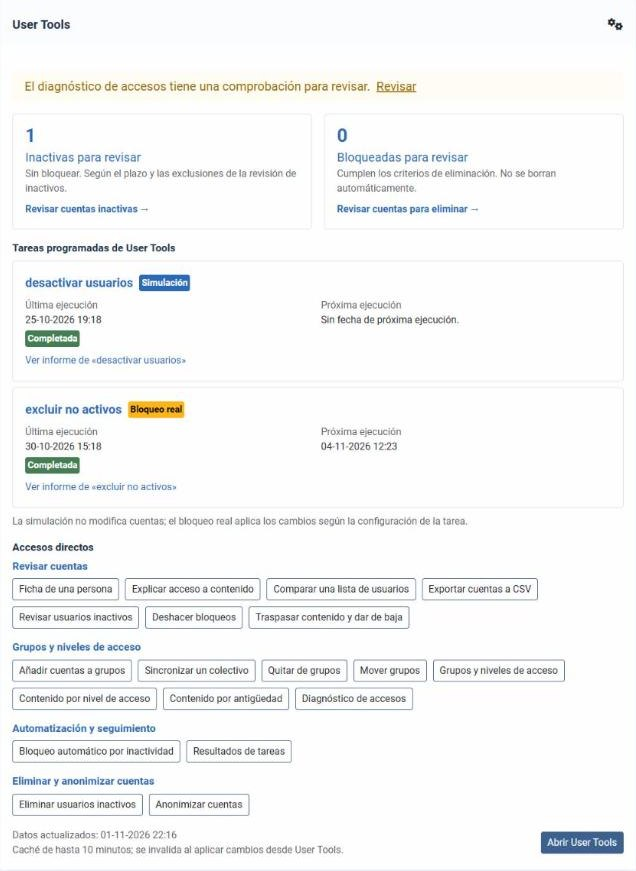
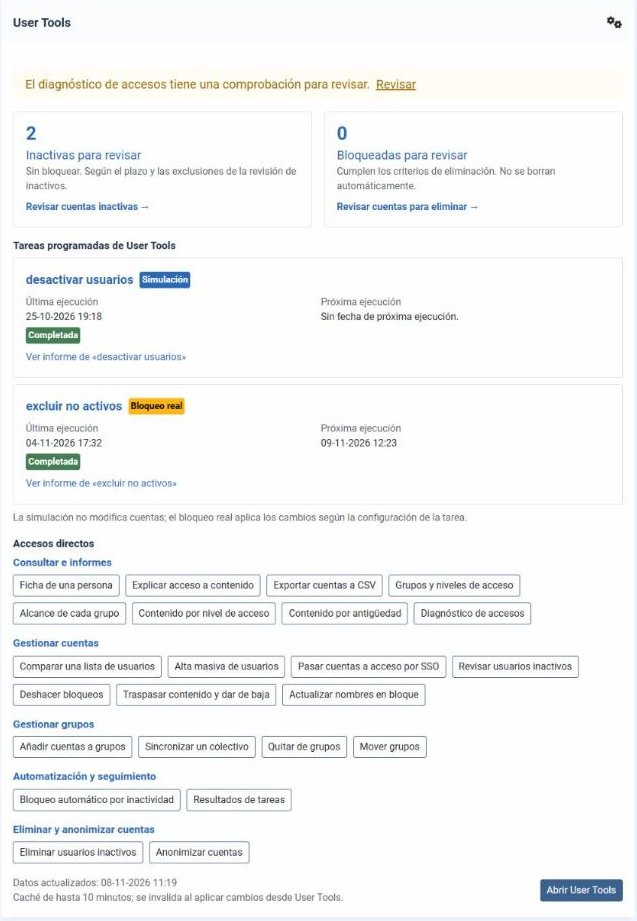
docs: Users dashboard screenshot with the five categories

diff --git a/docs/capturas.md b/docs/capturas.md
@@ -4,7 +4,7 @@
 
 [Volver al README](../README.md)
 
-Estas capturas compartidas muestran la interfaz en español en Joomla 6.2.0. Cada pie indica la versión en que se hizo la captura cuando es reciente: las de eliminación son de 2026.10.5, las de quitar de grupos de 2026.10.9 y 2026.10.16, la revisión de la comparación y la de grupos y niveles de acceso de 2026.10.11, la de contenido por nivel de acceso de 2026.10.12, las de diagnóstico de accesos de 2026.10.15, las de mover grupos de 2026.10.16, las de añadir cuentas a grupos, exportar cuentas y deshacer bloqueos de 2026.10.19, las de la ficha de una persona de 2026.10.20, la tabla de contenido por antigüedad con sus cuatro tipos, las categorías de automatización y eliminación, y el recorrido guiado, de 2026.10.21, y la ficha de una persona, el panel de Usuarios, la explicación de acceso, sincronizar un colectivo, traspasar contenido y el resultado de la anonimización, de 2026.11.0, las de actualizar nombres en bloque, de 2026.11.4, y la portada, las categorías «Consultar e informes», «Gestionar cuentas» y «Gestionar grupos», el alcance de cada grupo y la lista de contenido por antigüedad, de 2026.11.7. Las que no indican versión corresponden a una interfaz anterior y pueden diferir de la actual. Para las opciones y el comportamiento vigentes, consulta el [README](../README.md) y las [preguntas frecuentes](../FAQ.md).
+Estas capturas compartidas muestran la interfaz en español en Joomla 6.2.0. Cada pie indica la versión en que se hizo la captura cuando es reciente: las de eliminación son de 2026.10.5, las de quitar de grupos de 2026.10.9 y 2026.10.16, la revisión de la comparación y la de grupos y niveles de acceso de 2026.10.11, la de contenido por nivel de acceso de 2026.10.12, las de diagnóstico de accesos de 2026.10.15, las de mover grupos de 2026.10.16, las de añadir cuentas a grupos, exportar cuentas y deshacer bloqueos de 2026.10.19, las de la ficha de una persona de 2026.10.20, la tabla de contenido por antigüedad con sus cuatro tipos, las categorías de automatización y eliminación, y el recorrido guiado, de 2026.10.21, y la ficha de una persona, la explicación de acceso, sincronizar un colectivo, traspasar contenido y el resultado de la anonimización, de 2026.11.0, las de actualizar nombres en bloque, de 2026.11.4, y la portada, las categorías «Consultar e informes», «Gestionar cuentas» y «Gestionar grupos», el panel de Usuarios, el alcance de cada grupo y la lista de contenido por antigüedad, de 2026.11.7. Las que no indican versión corresponden a una interfaz anterior y pueden diferir de la actual. Para las opciones y el comportamiento vigentes, consulta el [README](../README.md) y las [preguntas frecuentes](../FAQ.md).
 
 Además de estas capturas, la CI comprueba el orden de teclado, el despliegue del menú y la categoría activa, y guarda capturas a texto al 200 %, con preferencia oscura y a 390 px de ancho. Las tarjetas y los formularios caben a 390 px, pero la cabecera general de Joomla no parte el título de la página y genera un ancho de documento de unos 600 px, y hasta unos 780 px con los títulos más largos, como el de «Traspasar contenido y dar de baja»; no se ha alterado la plantilla para ocultarlo. Esto no acredita conformidad WCAG ni sustituye pruebas con lector de pantalla.
 
@@ -82,7 +82,7 @@ Además de estas capturas, la CI comprueba el orden de teclado, el despliegue de
 
 ![Detalle de un informe de tarea](screenshots/10-informe-tarea.jpg)
 
-![Módulo User Tools en el panel de Usuarios: aviso del diagnóstico, cuentas para revisar, tareas con su modo y resultado, y accesos directos agrupados por las mismas categorías del menú (2026.11.0)](screenshots/13-panel-usuarios.jpg)
+![Módulo User Tools en el panel de Usuarios: aviso del diagnóstico, cuentas para revisar, tareas con su modo y resultado, y accesos directos agrupados por las mismas cinco categorías del menú (2026.11.7)](screenshots/13-panel-usuarios.jpg)
 
 ![Grupos y niveles de acceso: matriz de grupos por nivel, exportación CSV y resumen por nivel (2026.10.11)](screenshots/14-grupos-niveles.jpg)
 

diff --git a/docs/screenshots.en.md b/docs/screenshots.en.md
@@ -4,7 +4,7 @@
 
 [Back to the README](../README.en.md)
 
-These shared screenshots show the Spanish interface on Joomla 6.2.0. Each caption gives the version the screenshot was taken with when it is recent: deletion in 2026.10.5, remove from groups in 2026.10.9 and 2026.10.16, the comparison review and groups and access levels in 2026.10.11, content by access level in 2026.10.12, access diagnosis in 2026.10.15, move groups in 2026.10.16, add accounts to groups, export accounts and undo blocks in 2026.10.19, the account profile in 2026.10.20, the content by age table with its four kinds, the automation and delete categories and the guided tour in 2026.10.21, and the account profile, the Users dashboard, the access explanation, synchronising a group branch, handing over content and the anonymisation result in 2026.11.0, those of bulk updating names in 2026.11.4, and the home screen, the “Look up and reports”, “Manage accounts” and “Manage groups” categories, the reach of each group and the content by age list in 2026.11.7. Screenshots without a version show an older interface and may differ from the current one. For current options and behaviour, see the [README](../README.en.md) and [FAQ](../FAQ.en.md).
+These shared screenshots show the Spanish interface on Joomla 6.2.0. Each caption gives the version the screenshot was taken with when it is recent: deletion in 2026.10.5, remove from groups in 2026.10.9 and 2026.10.16, the comparison review and groups and access levels in 2026.10.11, content by access level in 2026.10.12, access diagnosis in 2026.10.15, move groups in 2026.10.16, add accounts to groups, export accounts and undo blocks in 2026.10.19, the account profile in 2026.10.20, the content by age table with its four kinds, the automation and delete categories and the guided tour in 2026.10.21, and the account profile, the access explanation, synchronising a group branch, handing over content and the anonymisation result in 2026.11.0, those of bulk updating names in 2026.11.4, and the home screen, the “Look up and reports”, “Manage accounts” and “Manage groups” categories, the Users dashboard, the reach of each group and the content by age list in 2026.11.7. Screenshots without a version show an older interface and may differ from the current one. For current options and behaviour, see the [README](../README.en.md) and [FAQ](../FAQ.en.md).
 
 Besides these screenshots, CI checks keyboard order, menu expansion and the active category, and saves captures at 200% text size, with a dark preference and at 390 px width. The cards and forms fit at 390 px, but Joomla’s overall header does not wrap the page title and produces a document width of about 600 px, and up to about 780 px with the longest titles, such as “Hand over content and close an account”; the template has not been altered to hide this. This does not establish WCAG conformance or replace screen-reader testing.
 
@@ -82,7 +82,7 @@ Besides these screenshots, CI checks keyboard order, menu expansion and the acti
 
 ![Task report details](screenshots/10-informe-tarea.jpg)
 
-![User Tools module on the Users dashboard: diagnosis notice, accounts to review, tasks with their mode and result, and shortcuts grouped by the same categories as the menu (2026.11.0, Spanish interface)](screenshots/13-panel-usuarios.jpg)
+![User Tools module on the Users dashboard: diagnosis notice, accounts to review, tasks with their mode and result, and shortcuts grouped by the same five categories as the menu (2026.11.7, Spanish interface)](screenshots/13-panel-usuarios.jpg)
 
 ![Groups and access levels: groups by level matrix, CSV export and summary by level (2026.10.11, Spanish interface)](screenshots/14-grupos-niveles.jpg)
 
